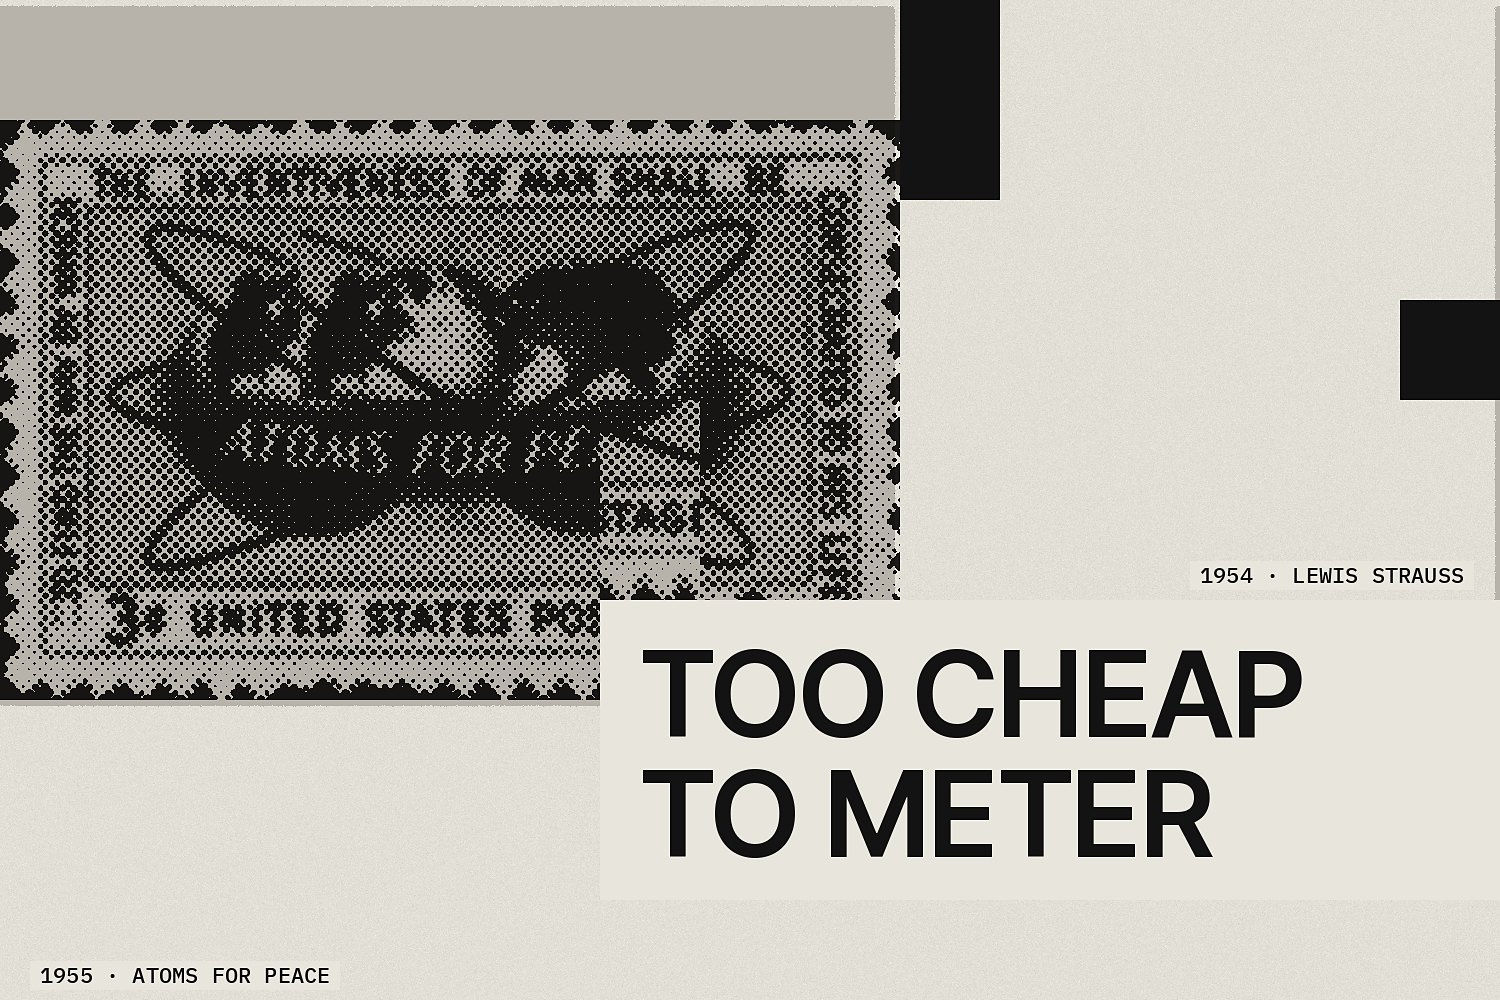
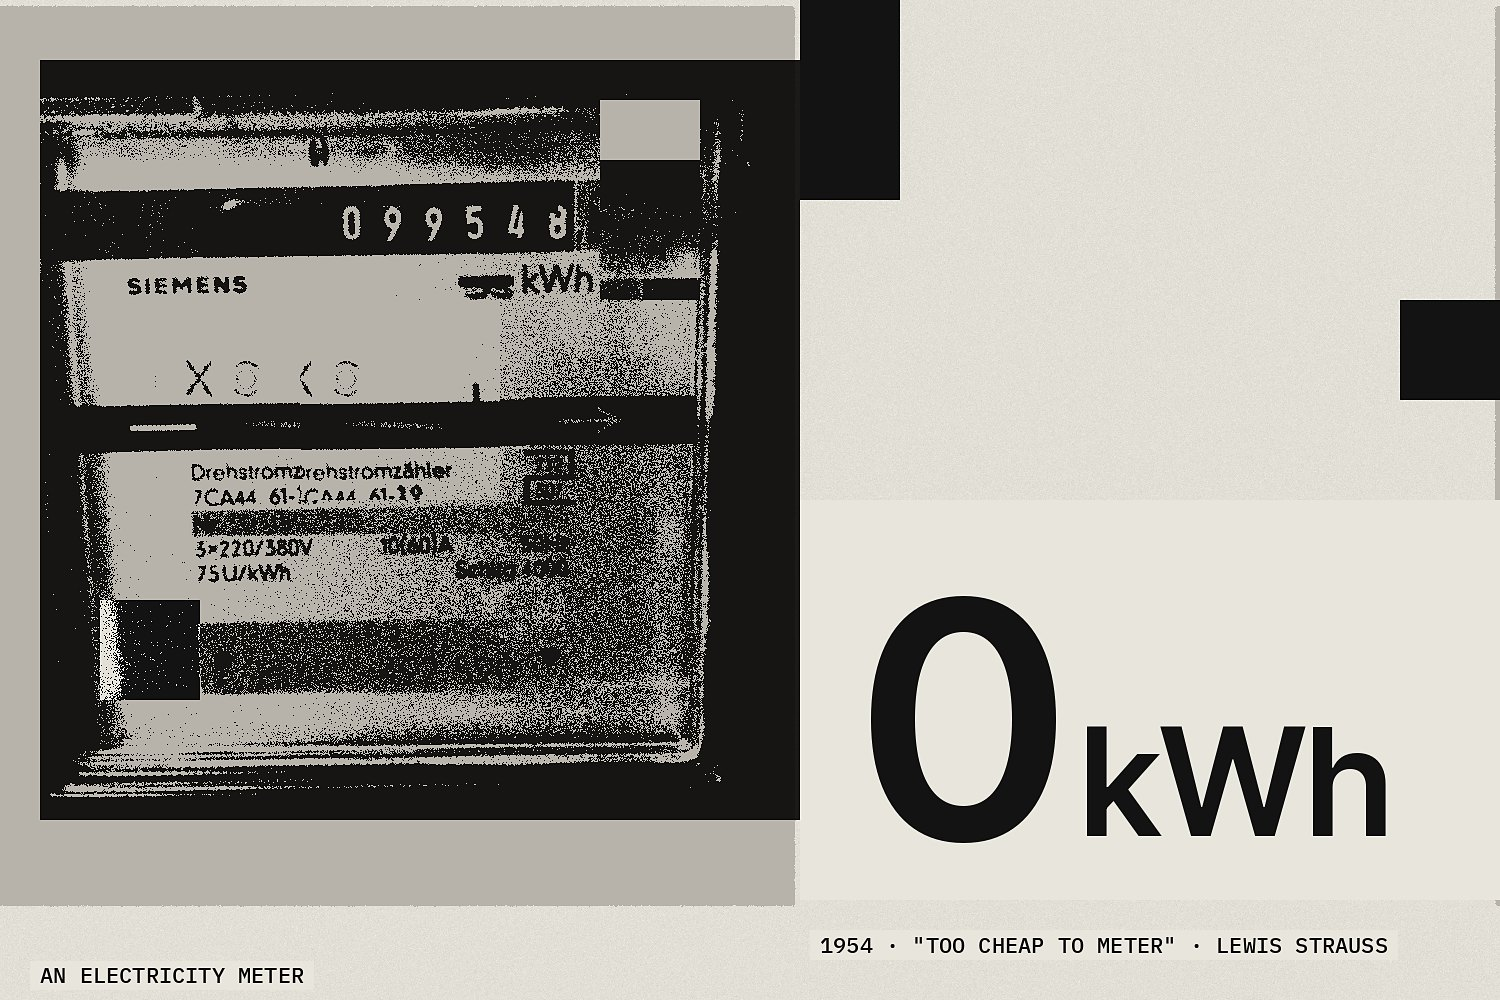
Abundance collage rebuilt: electricity meter and 0 kWh
Claude-Session: https://claude.ai/code/session_01Sc1pzyhKsrC3mM6v1oVhk6

diff --git a/scripts/collages.py b/scripts/collages.py
@@ -153,11 +153,11 @@ SPECS = [
          labels=[("2020 · IT'S TIME TO BUILD", 40, 1150), ('1934 · HOOVER DAM', 1350, 1150)]),
     # Themes: black and grey only
     dict(id='collage-abundance', size=THEME, colour=GREY, seed=55,
-         fields=[(0, 0, 9, 7)], black=[(9, 0, 1, 2), (14, 3, 1, 1)],
-         fragments=[dict(img='atoms-for-peace-stamp.jpg', box=(900, 580), how='halftone', period=8, at=(0, 120))],
-         shift=[(3, 2, 2, 2, 1, 0), (6, 4, 1, 2, 0, -1)],
-         type=[dict(slab=(6, 6, 9, 3), parts=[('TOO CHEAP', 120, 640, 620), ('TO METER', 120, 640, 740)])],
-         labels=[('1955 · ATOMS FOR PEACE', 40, 960), ('1954 · LEWIS STRAUSS', 1200, 560)]),
+         fields=[(0, 0, 8, 9)], black=[(8, 0, 1, 2), (14, 3, 1, 1)],
+         fragments=[dict(img='electricity-meter.jpg', box=(760, 760), crop=(0.04, 0.06, 0.96, 0.86), how='screen', level=0.5, at=(40, 60))],
+         shift=[(3, 3, 2, 2, 1, 0), (6, 1, 1, 2, 0, 1)], invert=[(1, 6, 1, 1)],
+         type=[dict(slab=(8, 5, 7, 4), parts=[('0', 330, 860, 520), ('kWh', 150, 1080, 690)])],
+         labels=[('1954 · "TOO CHEAP TO METER" · LEWIS STRAUSS', 820, 930), ('AN ELECTRICITY METER', 40, 960)]),
     dict(id='collage-power', size=THEME, colour=GREY, seed=89,
          fields=[(0, 0, 4, 10), (11, 5, 4, 5)], black=[(4, 8, 2, 2), (14, 0, 1, 2)],
          fragments=[dict(img='leviathan-frontispiece.jpg', box=(1000, 1100), crop=(0.0, 0.0, 1.0, 0.58), how='screen', level=0.55, at=(250, -60))],

diff --git a/CLAUDE.md b/CLAUDE.md
@@ -56,7 +56,7 @@ Schemas are in `src/content.config.ts`; the build fails on a broken reference. S
 
 ### Collages (the house image style, from 20 Nov 2026)
 
-Every ism and theme card is a collage made in code by `scripts/collages.py` (`python3 scripts/collages.py <id>`), from archive images already cleared. Rules: archive fragments only (objects, drawings, engravings, machines, charts; no title pages or text documents); fragments cut along a 100 px grid, with a few squares shifted, inverted or removed; two bold colour fields under them, slightly out of register; family colour for isms (Transcendence `#C9F25B`, Risk `#F5A3BC`, Acceleration `#D8461C`), grey for themes; type only when it carries meaning (a date, a word of the ism's own) and then always whole, never cut; small mono labels with year and source on paper strips. Each collage's record in `src/data/images/collages.yaml` names its sources and the licence that follows from them.
+Every ism and theme card is a collage made in code by `scripts/collages.py` (`python3 scripts/collages.py <id>`), from archive images already cleared. Rules: archive fragments only (objects, drawings, engravings, machines, charts; no title pages or text documents); fragments cut along a 100 px grid, with a few squares shifted, inverted or removed; two bold colour fields under them, slightly out of register; family colour for isms (Transcendence `#C9F25B`, Risk `#F5A3BC`, Acceleration `#D8461C`), grey for themes; type only when it carries meaning (a date, a word of the ism's own) and then always whole, never cut; small mono labels with year and source on paper strips. Guiding rule (owner, 20 Nov): one strong object, one exact fact, plenty of air, as in the Scale collage (the Perceptron with 10²⁵). Each collage's record in `src/data/images/collages.yaml` names its sources and the licence that follows from them.
 
 ## Build and check
 

diff --git a/WORKPLAN.md b/WORKPLAN.md
@@ -41,6 +41,7 @@ Every session starts here: find the first stage that is not done, do the next pi
 
 ## Log
 
+- 2026-11-20: Collage set made for all 13 cards; Abundance rebuilt around an electricity meter (batch 3, 1 image, CC BY-SA 4.0).
 - 2026-11-20: Image batch 2 (3 card images) downloaded; every ism card now has an image. Home grid rows aligned.
 - 2026-11-20: Transhumanism checked and merged; every ism and theme is now checked.
 - 2026-11-20: Owner approved going public: repository public, GitHub Pages live from `gh-pages` (noindex for now).
